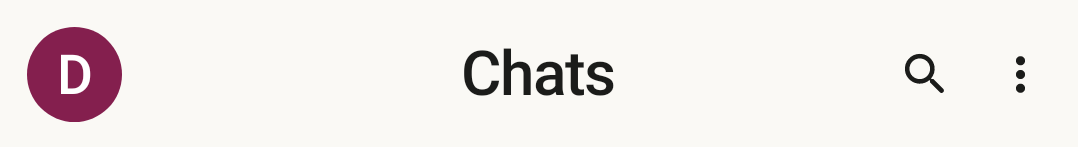
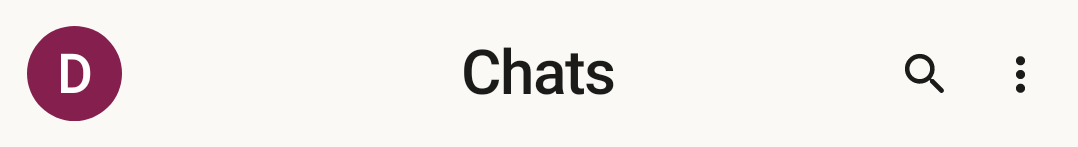
fix(android): top bar height on a real device, and record the CJK row-height bug
L2 on a HONOR CLK-AN00 (Android 14, SDK 34, density 480, fontScale 1.0), which the previous
commit should have run and did not.

It found one regression from that commit. `Modifier.height(56.dp)` on the centred top bar
constrains the WHOLE composable, and the bar draws its status-bar inset inside its own
container — so most of the 56dp went to the inset, the content row was squashed, the title
was clipped vertically and sat flush against the first group header. `expandedHeight = 56.dp`
sets the content row instead, which is the same split the mock has (`h-14` for the row,
`pt-safe` separately). Roborazzi cannot see this: there is no real status-bar inset in the
JVM, which is exactly the kind of gap L2 exists to cover.

It also found a row-height bug that is NOT from this branch. A session whose project name is
Chinese renders at Material's 88dp instead of 72dp, top-aligned, leaving a ~16dp hole under
the subline. Measured against `origin/main` (c736350) on the same device with the same data:
identical 264px rows there, with the subline still on the system face. So bundling the mono
family did not cause it. `includeFontPadding = false` and `LineHeightStyle(Trim.Both)` were
tried on the subline and changed nothing, so they are not left in the code pretending to.
Written up in docs/ANDROID_SMOKE.md as A-05 with the measurements, the ruled-out causes, and
where to start; fixing it is its own change, not this one's.
[…]

diff --git a/android/app/src/main/java/com/hermes/client/ui/components/HermesTopBar.kt b/android/app/src/main/java/com/hermes/client/ui/components/HermesTopBar.kt
@@ -1,7 +1,6 @@
 package com.hermes.client.ui.components
 
 import androidx.compose.foundation.layout.Column
-import androidx.compose.foundation.layout.height
 import androidx.compose.material3.ExperimentalMaterial3Api
 import androidx.compose.material3.MaterialTheme
 import androidx.compose.material3.Text
@@ -41,7 +40,14 @@ fun HermesTopBar(
         androidx.compose.material3.CenterAlignedTopAppBar(
             // 56dp, the mock's `h-14`, against Material's 64dp default. Only the centred bar —
             // that is the one the session-list mock specifies (docs/DESIGN.md §5.2).
-            modifier = modifier.height(56.dp),
+            //
+            // `expandedHeight`, NOT `Modifier.height`. The bar draws its own status-bar inset
+            // inside its container, so constraining the whole composable to 56dp spends most of
+            // that on the inset and squashes the content row: on a HONOR CLK-AN00 the title was
+            // vertically clipped and sat flush against the first group header. The mock has the
+            // same split — `h-14` is the content row, `pt-safe` is separate.
+            expandedHeight = 56.dp,
+            modifier = modifier,
             colors = TopAppBarDefaults.centerAlignedTopAppBarColors(
                 containerColor = barBg,
                 titleContentColor = barOn,

diff --git a/android/app/src/main/java/com/hermes/client/ui/theme/Type.kt b/android/app/src/main/java/com/hermes/client/ui/theme/Type.kt
@@ -192,6 +192,13 @@ val SessionRowTitleRead = SessionRowTitle.copy(fontWeight = FontWeight.Medium)
 /**
  * `project · model`. Monospaced in the mock, and this is where bundling [HermesMono] actually shows:
  * the content is repo and model names, so almost none of it falls back to the system face.
+ *
+ * Note for anyone chasing row heights: a session whose PROJECT NAME is Chinese renders its row at
+ * Material's 88dp instead of 72dp, with the content top-aligned and a hole underneath. That is a
+ * pre-existing bug, not something this font brought — measured on a HONOR CLK-AN00 against
+ * `origin/main` (c736350) as well, where the subline is still the system face. `includeFontPadding`
+ * and a trimmed `LineHeightStyle` were tried here and changed nothing, so they are deliberately
+ * absent. Recorded in docs/ANDROID_SMOKE.md; fixing it is its own change.
  */
 val SessionRowSubline = TextStyle(
     fontFamily = HermesMono,
